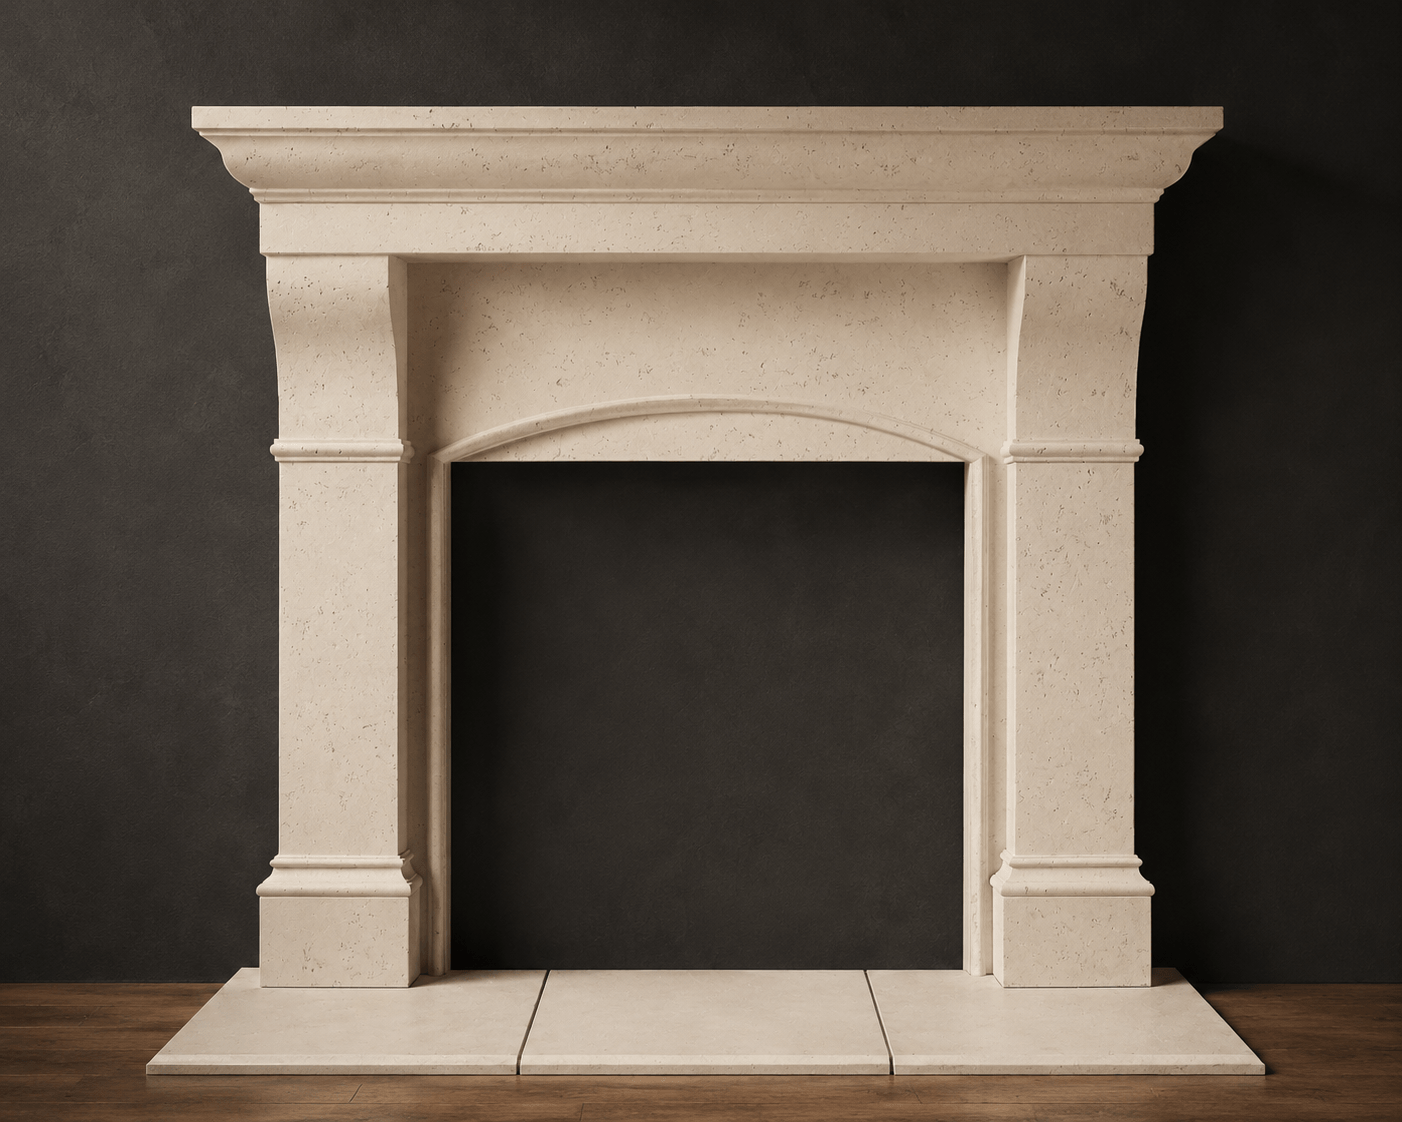
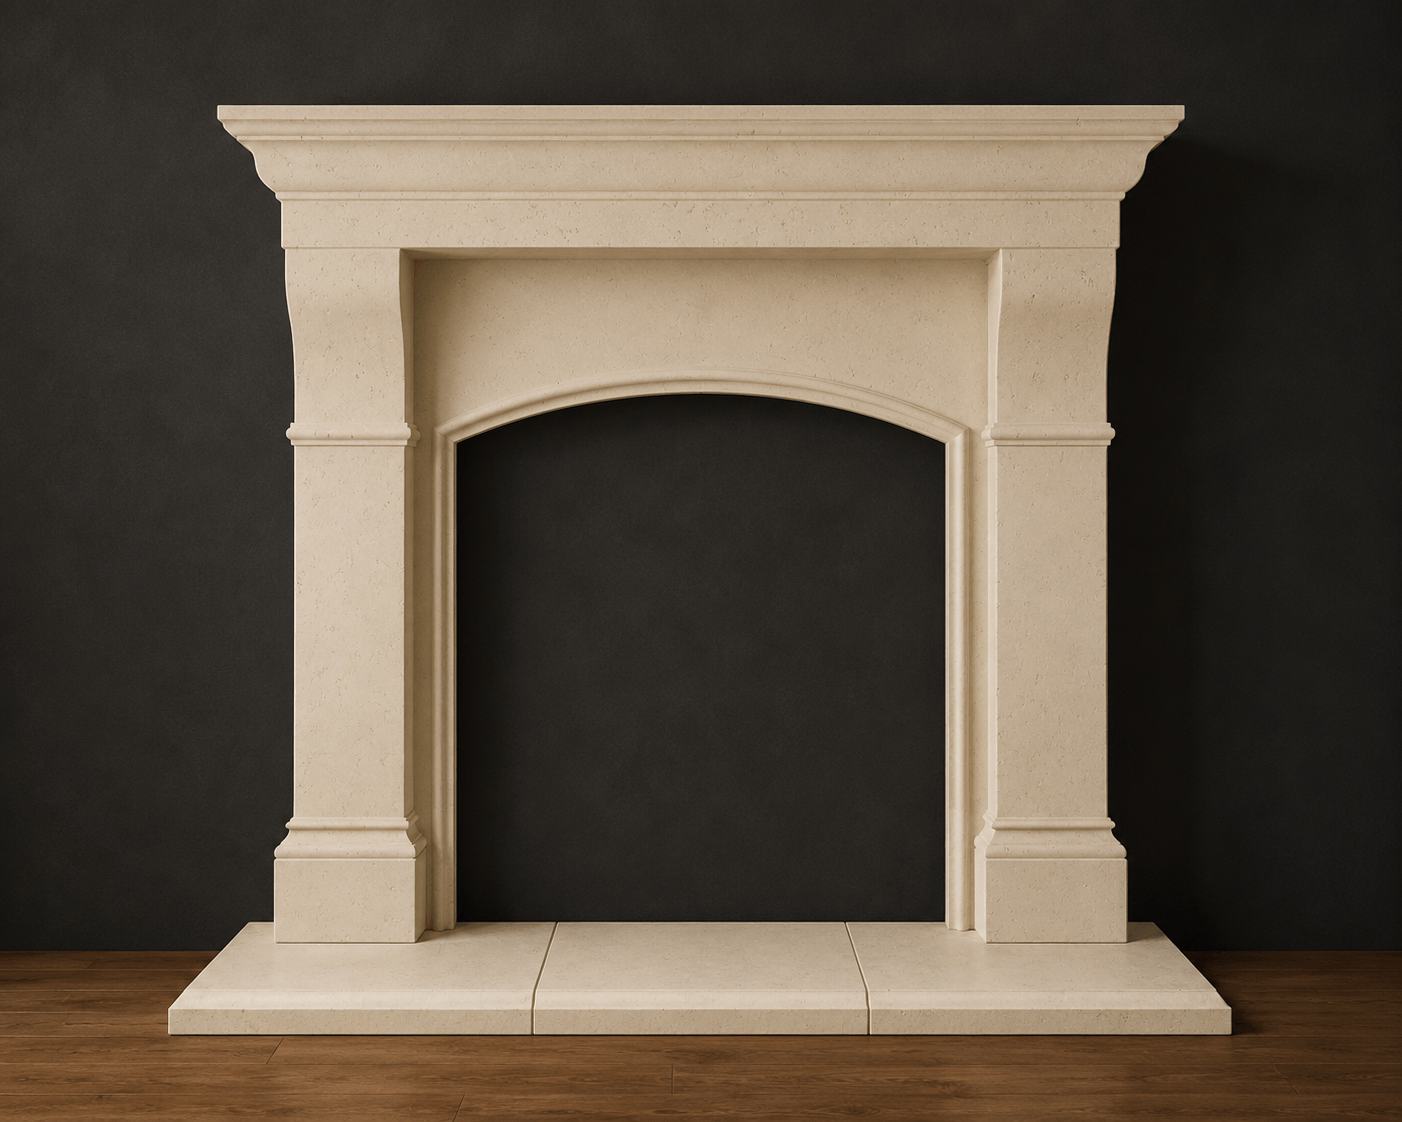
Add firebox-height filter + 21 more mantel photos
- Fit-finder: optional firebox opening height input; excludes mantels
  whose opening is too short. Clarify any firebox size works (presets
  36/42/48/50 + free entry).
- Product photos (optimized): willamette, ashford, belmont, boomerang,
  brighton, casden, clarendon, koonunga, mingary, milagro, rockhampton,
  reynella, sienna, turin, urrbrae, versailles, wayville, whyalla,
  willunga, woomera, yarra.

diff --git a/src/components/MantelFitFinder.tsx b/src/components/MantelFitFinder.tsx
@@ -17,6 +17,7 @@ function fmt(n: number): string {
 
 export default function MantelFitFinder() {
   const [firebox, setFirebox] = useState<number | "">("");
+  const [fireboxHeight, setFireboxHeight] = useState<number | "">("");
   const [wallLimited, setWallLimited] = useState(false);
   const [wallWidth, setWallWidth] = useState<number | "">("");
   const [material, setMaterial] = useState<"any" | "precast" | "wood">("any");
@@ -26,11 +27,12 @@ export default function MantelFitFinder() {
     if (firebox === "" || firebox <= 0) return [];
     const criteria: FitCriteria = {
       fireboxWidth: Number(firebox),
+      fireboxHeight: fireboxHeight !== "" && fireboxHeight > 0 ? Number(fireboxHeight) : undefined,
       maxWallWidth: wallLimited && wallWidth !== "" ? Number(wallWidth) : undefined,
       material,
     };
     return findFittingMantels(criteria);
-  }, [firebox, wallLimited, wallWidth, material]);
+  }, [firebox, fireboxHeight, wallLimited, wallWidth, material]);
 
   return (
     <div className="bg-stone-50 border border-stone-200 rounded-2xl p-6 sm:p-8">
@@ -54,22 +56,44 @@ export default function MantelFitFinder() {
               inputMode="decimal"
               value={firebox}
               onChange={(e) => { setFirebox(e.target.value === "" ? "" : Number(e.target.value)); setSearched(true); }}
-              placeholder="e.g. 36"
+              placeholder="any size, e.g. 44"
               className="w-full border border-stone-300 rounded-lg px-3 py-2 text-stone-800 focus:border-amber-700 focus:outline-none"
             />
             <span className="text-stone-400 text-sm">in</span>
           </div>
-          <div className="flex gap-2 mt-2">
-            {[36, 42].map((v) => (
+          <div className="flex flex-wrap gap-2 mt-2 items-center">
+            <span className="text-[11px] text-stone-400">Common:</span>
+            {[36, 42, 48, 50].map((v) => (
               <button
                 key={v}
                 onClick={() => { setFirebox(v); setSearched(true); }}
                 className="text-xs border border-stone-300 rounded-full px-3 py-1 text-stone-600 hover:border-amber-700 hover:text-amber-700 transition-colors"
               >
-                {v}&quot; firebox
+                {v}&quot;
               </button>
             ))}
           </div>
+          <p className="text-[11px] text-stone-400 mt-1.5">
+            Measure the <strong>inside width</strong> of your firebox opening. Any size works — just type it in.
+          </p>
+
+          <label className="block text-xs font-semibold text-stone-500 uppercase tracking-wider mb-1.5 mt-4">
+            Firebox opening height <span className="text-stone-400 normal-case font-normal">(optional)</span>
+          </label>
+          <div className="flex items-center gap-2">
+            <input
+              type="number"
+              inputMode="decimal"
+              value={fireboxHeight}
+              onChange={(e) => setFireboxHeight(e.target.value === "" ? "" : Number(e.target.value))}
+              placeholder="e.g. 30"
+              className="w-full border border-stone-300 rounded-lg px-3 py-2 text-stone-800 focus:border-amber-700 focus:outline-none"
+            />
+            <span className="text-stone-400 text-sm">in</span>
+          </div>
+          <p className="text-[11px] text-stone-400 mt-1.5">
+            Add height to rule out mantels whose opening is too short for a tall firebox.
+          </p>
         </div>
 
         {/* Wall space */}
@@ -123,7 +147,7 @@ export default function MantelFitFinder() {
           <p className="text-sm text-stone-500 mb-4">
             {results.length === 0
               ? "No mantels with published dimensions fit those measurements yet."
-              : `${results.length} mantel${results.length === 1 ? "" : "s"} fit your ${fmt(Number(firebox))} firebox${wallLimited && wallWidth !== "" ? ` within ${fmt(Number(wallWidth))} of wall space` : ""}.`}
+              : `${results.length} mantel${results.length === 1 ? "" : "s"} fit your ${fmt(Number(firebox))}${fireboxHeight !== "" && fireboxHeight > 0 ? ` × ${fmt(Number(fireboxHeight))}` : ""} firebox${wallLimited && wallWidth !== "" ? ` within ${fmt(Number(wallWidth))} of wall space` : ""}.`}
           </p>
 
           <div className="grid grid-cols-1 sm:grid-cols-2 lg:grid-cols-3 gap-5">

diff --git a/src/lib/mantel-products-data.ts b/src/lib/mantel-products-data.ts
@@ -133,6 +133,7 @@ export const mantelProducts: MantelProduct[] = [
   {
     slug: "brighton",
     name: "Brighton",
+    image: "/mantels/brighton.png",
     type: "precast",
     style: "contemporary",
     cadPdf: "/cad/brighton.pdf",
@@ -142,6 +143,7 @@ export const mantelProducts: MantelProduct[] = [
   {
     slug: "clarendon",
     name: "Clarendon",
+    image: "/mantels/clarendon.png",
     type: "precast",
     style: "contemporary",
     cadPdf: "/cad/clarendon.pdf",
@@ -151,6 +153,7 @@ export const mantelProducts: MantelProduct[] = [
   {
     slug: "woomera",
     name: "Woomera",
+    image: "/mantels/woomera.png",
     type: "precast",
     style: "contemporary",
     description:
@@ -159,6 +162,7 @@ export const mantelProducts: MantelProduct[] = [
   {
     slug: "urrbrae",
     name: "Urrbrae",
+    image: "/mantels/urrbrae.png",
     type: "precast",
     style: "contemporary",
     description:
@@ -177,6 +181,7 @@ export const mantelProducts: MantelProduct[] = [
   {
     slug: "willunga",
     name: "Willunga",
+    image: "/mantels/willunga.png",
     type: "precast",
     style: "contemporary",
     description:
@@ -212,6 +217,7 @@ export const mantelProducts: MantelProduct[] = [
   {
     slug: "belmont",
     name: "Belmont",
+    image: "/mantels/belmont.png",
     type: "precast",
     style: "transitional",
     cadPdf: "/cad/belmont.pdf",
@@ -221,6 +227,7 @@ export const mantelProducts: MantelProduct[] = [
   {
     slug: "boomerang",
     name: "Boomerang",
+    image: "/mantels/boomerang.png",
     type: "precast",
     style: "contemporary",
     cadPdf: "/cad/boomerang.pdf",
@@ -230,6 +237,7 @@ export const mantelProducts: MantelProduct[] = [
   {
     slug: "whyalla",
     name: "Whyalla",
+    image: "/mantels/whyalla.png",
     type: "precast",
     style: "contemporary",
     description:
@@ -238,6 +246,7 @@ export const mantelProducts: MantelProduct[] = [
   {
     slug: "sienna",
     name: "Sienna",
+    image: "/mantels/sienna.png",
     type: "precast",
     style: "contemporary",
     description:
@@ -255,6 +264,7 @@ export const mantelProducts: MantelProduct[] = [
   {
     slug: "reynella",
     name: "Reynella",
+    image: "/mantels/reynella.png",
     type: "precast",
     style: "contemporary",
     description:
@@ -263,6 +273,7 @@ export const mantelProducts: MantelProduct[] = [
   {
     slug: "mingary",
     name: "Mingary",
+    image: "/mantels/mingary.png",
     type: "precast",
     style: "contemporary",
     cadPdf: "/cad/mingary.pdf",
@@ -272,6 +283,7 @@ export const mantelProducts: MantelProduct[] = [
   {
     slug: "casden",
     name: "Casden",
+    image: "/mantels/casden.png",
     type: "precast",
     style: "contemporary",
     cadPdf: "/cad/casden.pdf",
@@ -290,6 +302,7 @@ export const mantelProducts: MantelProduct[] = [
   {
     slug: "wayville",
     name: "Wayville",
+    image: "/mantels/wayville.png",
     type: "precast",
     style: "contemporary",
     description:
@@ -306,6 +319,7 @@ export const mantelProducts: MantelProduct[] = [
   {
     slug: "yarra",
     name: "Yarra",
+    image: "/mantels/yarra.png",
     type: "precast",
     style: "contemporary",
     description:
@@ -323,6 +337,7 @@ export const mantelProducts: MantelProduct[] = [
   {
     slug: "turin",
     name: "Turin",
+    image: "/mantels/turin.png",
     type: "precast",
     style: "contemporary",
     description:
@@ -339,6 +354,7 @@ export const mantelProducts: MantelProduct[] = [
   {
     slug: "ashford",
     name: "Ashford",
+    image: "/mantels/ashford.png",
     type: "precast",
     style: "contemporary",
     description:
@@ -871,6 +887,7 @@ export const mantelProducts: MantelProduct[] = [
   {
     slug: "versailles",
     name: "Versailles",
+    image: "/mantels/versailles.png",
     type: "precast",
     style: "traditional",
     cadPdf: "/cad/versailles.pdf",
@@ -930,6 +947,7 @@ export const mantelProducts: MantelProduct[] = [
   {
     slug: "willamette",
     name: "Willamette",
+    image: "/mantels/willamette.png",
     type: "precast",
     style: "traditional",
     cadPdf: "/cad/willamette.pdf",

diff --git a/src/lib/mantel-fit.ts b/src/lib/mantel-fit.ts
@@ -41,6 +41,7 @@ export type ClearanceStatus = "na" | "ok" | "verify";
 
 export interface FitCriteria {
   fireboxWidth: number;        // firebox opening width, inches
+  fireboxHeight?: number;      // firebox opening height, inches (optional — extra check)
   maxWallWidth?: number;       // available wall space, inches (omit = no restriction)
   material?: "any" | "precast" | "wood";
 }
@@ -67,7 +68,7 @@ function woodClearance(slug: string): ClearanceStatus {
 
 /** Returns every mantel (with dimension data) that fits the given firebox + wall space. */
 export function findFittingMantels(criteria: FitCriteria): FitResult[] {
-  const { fireboxWidth, maxWallWidth, material = "any" } = criteria;
+  const { fireboxWidth, fireboxHeight, maxWallWidth, material = "any" } = criteria;
   const results: FitResult[] = [];
 
   for (const product of mantelProducts) {
@@ -78,6 +79,9 @@ export function findFittingMantels(criteria: FitCriteria): FitResult[] {
 
     const d = mantelDimensions[product.slug];
     if (!d) continue; // no dimensions yet → can't size-match
+
+    // Opening must be tall enough for the firebox (extra height = top reveal, coverable).
+    if (fireboxHeight != null && d.openingHeight < fireboxHeight) continue;
 
     const fittingSizes: FittingSize[] = [];
     d.openingWidths.forEach((ow, i) => {